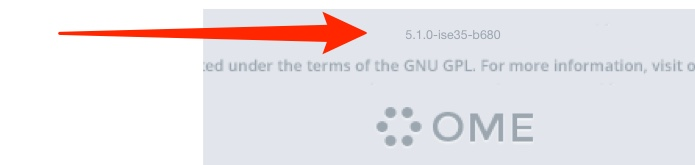
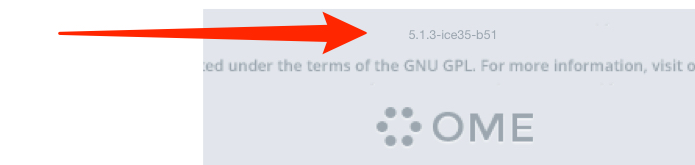
Updates to Home page for 5.1.3 release

diff --git a/index.html b/index.html
@@ -11,7 +11,7 @@ description: The Home page for the User Help documentation for OMERO.insight, OM
 
 <p>The <a href="resources.html">Training Course Material</a> page contains links to material for printing out and using in training sessions, ZIP archives of the PDFs for all the current versions, customised versions of some of the Guides and other resources such as  Omnigraffle&reg; and Word&reg; files.</p>
 
-<p>The current release versions of OMERO.insight are 5.1.2 and 5.0.8. You can tell what version of OMERO you are using by looking at the login screen, or selecting <span class="bold">About OMERO.insight</span> from the Help menu in OMERO.insight.</p>
+<p>The current release versions of OMERO.insight are 5.1.3 and 5.0.8. You can tell what version of OMERO you are using by looking at the login screen, or selecting <span class="bold">About OMERO.insight</span> from the Help menu in OMERO.insight.</p>
 
 <p><img src="images/indexVersion.jpg" alt="OMERO.insight Version" style="width: 80%;"/></p>
 
@@ -26,7 +26,25 @@ description: The Home page for the User Help documentation for OMERO.insight, OM
   <div class="line"><br /></div> <!-- end #line -->
 </div><!-- end #line-block -->
 
-<h2><a class="anchor" id="pwreset"></a><span class="bold">Key-value Pair Annotations</span></h2>
+<h2>Run Scripts from Full Viewer</h2>
+
+<p>You can now run the scripts available on OMERO from the OMERO.insight Full Viewer.</p>
+
+<div class="line-block">
+  <div class="line"><br /></div> <!-- end #line -->
+</div><!-- end #line-block -->
+
+<img alt="../images/indexFullViewerScripts.jpg" class="align-center" src="images/indexFullViewerScripts.jpg" style="width: 70%;" />
+
+<div class="line-block">
+  <div class="line"><br /></div> <!-- end #line -->
+</div><!-- end #line-block -->
+
+<div class="line-block">
+  <div class="line"><br /></div> <!-- end #line -->
+</div><!-- end #line-block -->
+
+<h2><a class="anchor" id="pwreset"></a>Key-value Pair Annotations</h2>
 
 <p>OMERO now supports a new type of annotation - key-value pairs.</p>
 
@@ -39,9 +57,12 @@ description: The Home page for the User Help documentation for OMERO.insight, OM
 </div><!-- end #line-block -->
 
 <img alt="../images/indexKeyValuePairs.jpg" class="align-center" src="images/indexKeyValuePairs.jpg" style="width: 100%;" />
-<div class="line-block">
 
-<h2><span class="bold">Save ImageJ ROIs to OMERO</span></h2>
+<div class="line-block">
+  <div class="line"><br /></div> <!-- end #line -->
+</div><!-- end #line-block -->
+
+<h2>Save ImageJ ROIs to OMERO</h2>
 
 <p>Using the OMERO plugin with ImageJ or Fiji, you can now save images directly from ImageJ to your OMERO server, save ROIs drawn in ImageJ back to the OMERO server, and save ImageJ results tables back to OMERO.</p>
 
